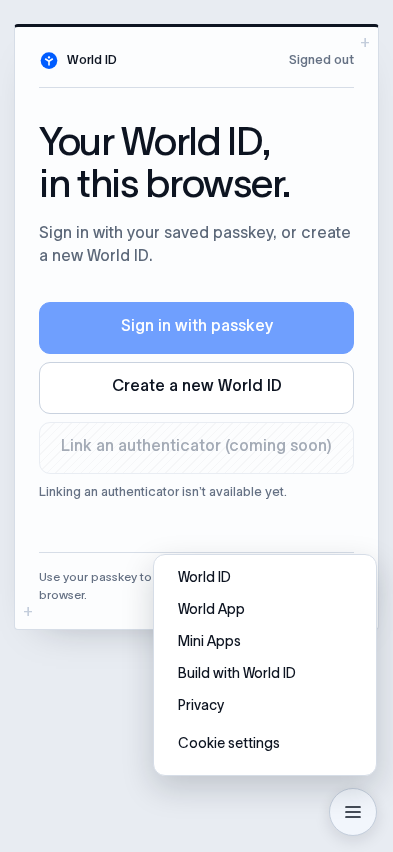
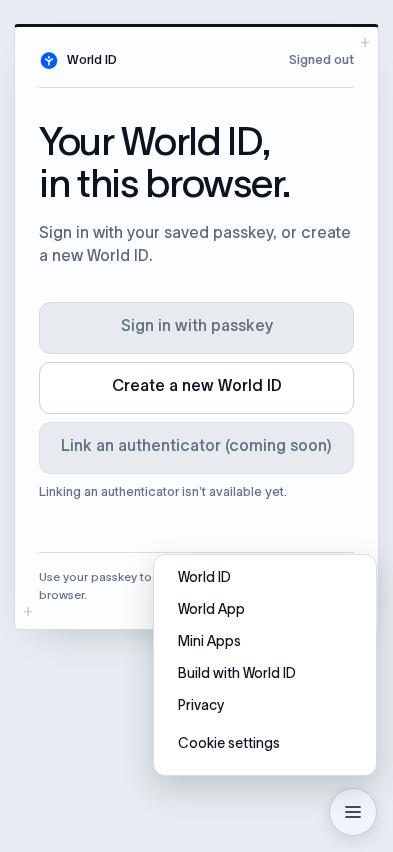
Show progress while opening authenticator

Changed region(s): [[0.0916, 0.3357, 0.916, 0.4272], [0.1527, 0.5188, 0.855, 0.5493]]

diff --git a/web/components/AuthenticatorAccess.tsx b/web/components/AuthenticatorAccess.tsx
@@ -12,6 +12,7 @@ export function AuthenticatorAccess({ onOpen }: {
   const [records, setRecords] = useState<CredentialMetadata[] | null>(null);
   const [preview, setPreview] = useState(false);
   const [busy, setBusy] = useState(false);
+  const [progress, setProgress] = useState("");
   const [error, setError] = useState<string>();
   const wallet = useRef<WalletKit | null>(null);
   const operation = useRef<AbortController | null>(null);
@@ -25,12 +26,14 @@ export function AuthenticatorAccess({ onOpen }: {
     if (operation.current) return;
     const controller = new AbortController(); operation.current = controller;
     setBusy(true); setError(undefined);
+    setProgress(mode === "create" ? "Create your passkey to continue." : "Use your passkey to sign in.");
     try {
       const deadline = AbortSignal.any([controller.signal, AbortSignal.timeout(310_000)]);
-      const current = await abortable(onOpen(deadline, () => {}, mode).then(value => {
+      const current = await abortable(onOpen(deadline, () => { if (!deadline.aborted && operation.current === controller) setProgress("Opening your authenticator…"); }, mode).then(value => {
         if (deadline.aborted) { value.terminate(); deadline.throwIfAborted(); }
         wallet.current = value; return value;
       }), deadline);
+      setProgress("Loading your credentials…");
       const credentials = await abortable(current.listCredentials(), AbortSignal.any([deadline, AbortSignal.timeout(10_000)]));
       deadline.throwIfAborted(); setRecords(credentials);
     } catch {
@@ -76,12 +79,15 @@ export function AuthenticatorAccess({ onOpen }: {
       </div> : <div className="flex flex-1 flex-col pt-9">
         <h1 className="text-[40px] leading-[1.04] tracking-[-.033em]">Your World ID,<br />in this browser.</h1>
         <p className="mt-4 max-w-[22em] text-[16px] leading-[1.45] text-[#5c6879]">Sign in with your saved passkey, or create a new World ID.</p>
-        <div className="mt-8 grid gap-2">
-          <button className={`${button} border-[#0a5cfe] bg-[#0a5cfe] text-white enabled:hover:bg-[#0846c2]`} disabled={busy || !saved} onClick={() => void open("open")}>Sign in with passkey</button>
-          <button className={`${button} border-[#c9d2df] bg-white enabled:hover:bg-[#f5f8fd]`} disabled={busy || saved} onClick={() => void open("create")}>{busy ? "Opening authenticator…" : "Create a new World ID"}</button>
-          <button className={`${button} cursor-not-allowed border-[#dde3ec] text-[#657184] [background:repeating-linear-gradient(-45deg,rgba(13,20,33,.048)_0_1px,transparent_1px_6px)]`} disabled>Link an authenticator (coming soon)</button>
+        {busy ? <div className="mt-8 flex items-center gap-3 text-[15px] text-[#5c6879]" role="status" aria-live="polite">
+          <span aria-hidden="true" className="size-6 shrink-0 rounded-full border-2 border-[#d6dde7] border-t-[#0a5cfe] motion-safe:animate-spin" />
+          <span>{progress}</span>
+        </div> : <div className="mt-8 grid gap-2">
+          <button className={`${button} border-[#0a5cfe] bg-[#0a5cfe] text-white enabled:hover:bg-[#0846c2] disabled:cursor-not-allowed disabled:border-[#d6dde7] disabled:bg-[#e7ebf0] disabled:text-[#657184] disabled:opacity-100`} disabled={!saved} onClick={() => void open("open")}>Sign in with passkey</button>
+          <button className={`${button} border-[#c9d2df] bg-white enabled:hover:bg-[#f5f8fd] disabled:cursor-not-allowed disabled:border-[#d6dde7] disabled:bg-[#e7ebf0] disabled:text-[#657184] disabled:opacity-100`} disabled={saved} onClick={() => void open("create")}>Create a new World ID</button>
+          <button className={`${button} cursor-not-allowed border-[#dde3ec] bg-[#e7ebf0] text-[#657184] disabled:opacity-100`} disabled>Link an authenticator (coming soon)</button>
           <p className="mt-1 text-[13px] text-[#657184]">Linking an authenticator isn’t available yet.</p>
-        </div>
+        </div>}
         <p className="mt-auto border-t border-[#d6dde7] pt-4 text-[12px] leading-[1.5] text-[#657184]">Use your passkey to unlock your authenticator in this browser.</p>
       </div>}
       {error && <p className="mt-4 rounded-lg bg-[#fff1f1] p-3 text-[14px] text-[#a32424]" role="alert">{error}</p>}

diff --git a/web/test/app.test.tsx b/web/test/app.test.tsx
@@ -1,6 +1,6 @@
 import { afterAll, afterEach, beforeAll, beforeEach, expect, spyOn, test } from "bun:test";
 import { GlobalRegistrator } from "@happy-dom/global-registrator";
-import { cleanup, fireEvent, render } from "@testing-library/react";
+import { act, cleanup, fireEvent, render } from "@testing-library/react";
 import { AuthenticatorAppV1 } from "../App";
 import { signedRequest } from "../../tests/integration/fixtures/request";
 import type { IncomingRequest } from "../lib/incoming-request";
@@ -278,5 +278,55 @@ test("an active Selfie Check does not offer setup", async () => {
     fireEvent.click(await view.findByRole("button", { name: "Sign in with passkey" }));
     expect(await view.findByText("1 credential in your authenticator.")).toBeTruthy();
     expect(view.queryByRole("button", { name: "Set up Selfie Check" })).toBeNull();
+  } finally { localStorage.clear(); }
+});
+
+for (const mode of ["create", "open"] as const) {
+  test(`${mode} shows progress until the wallet and credentials finish loading`, async () => {
+    localStorage.clear();
+    if (mode === "open") localStorage.setItem("world-id-wallet-v1", JSON.stringify({ version: 1, credentialId: "ab" }));
+    visit("/");
+    const f = await fixture(11);
+    let finishOpen!: (wallet: WalletKit) => void;
+    let finishList!: (records: CredentialMetadata[]) => void;
+    let reportProgress!: (message: string) => void;
+    const wallet = { ...f.wallet, terminate: () => {}, listCredentials: () => new Promise<CredentialMetadata[]>(resolve => { finishList = resolve; }) } as WalletKit;
+    const view = render(<AuthenticatorAppV1 services={{ ...f.services, open: async (_signal, report) => {
+      reportProgress = report;
+      return new Promise<WalletKit>(resolve => { finishOpen = resolve; });
+    } }} consent={decidedConsent} />);
+    try {
+      const action = mode === "open" ? "Sign in with passkey" : "Create a new World ID";
+      const unavailable = mode === "open" ? "Create a new World ID" : "Sign in with passkey";
+      expect((await view.findByRole("button", { name: unavailable }) as HTMLButtonElement).disabled).toBe(true);
+      fireEvent.click(view.getByRole("button", { name: action }));
+      expect(view.getByRole("status").textContent).toContain(mode === "open" ? "Use your passkey" : "Create your passkey");
+      expect(view.queryByRole("button", { name: action })).toBeNull();
+      expect(view.queryByRole("button", { name: unavailable })).toBeNull();
+      expect(view.queryByRole("button", { name: /Link an authenticator/ })).toBeNull();
+      act(() => reportProgress("internal registration progress"));
+      expect(view.getByRole("status").textContent).toBe("Opening your authenticator…");
+      await act(async () => { finishOpen(wallet); });
+      expect(await view.findByText("Loading your credentials…")).toBeTruthy();
+      await act(async () => { finishList([]); });
+      expect(await view.findByText("0 credentials in your authenticator.")).toBeTruthy();
+      expect(view.queryByRole("status")).toBeNull();
+    } finally { localStorage.clear(); }
+  });
+}
+
+test("failed creation restores actions and offers sign-in when a passkey was saved", async () => {
+  localStorage.clear(); visit("/");
+  const f = await fixture(11);
+  const view = render(<AuthenticatorAppV1 services={{ ...f.services, open: async () => {
+    localStorage.setItem("world-id-wallet-v1", JSON.stringify({ version: 1, credentialId: "ab" }));
+    throw new Error("registration unavailable");
+  } }} consent={decidedConsent} />);
+  try {
+    fireEvent.click(await view.findByRole("button", { name: "Create a new World ID" }));
+    expect(await view.findByRole("alert")).toBeTruthy();
+    expect(view.queryByRole("status")).toBeNull();
+    expect((view.getByRole("button", { name: "Sign in with passkey" }) as HTMLButtonElement).disabled).toBe(false);
+    expect((view.getByRole("button", { name: "Create a new World ID" }) as HTMLButtonElement).disabled).toBe(true);
   } finally { localStorage.clear(); }
 });

diff --git a/tests/integration/browser/authenticator.browser.spec.ts b/tests/integration/browser/authenticator.browser.spec.ts
@@ -221,6 +221,22 @@ if (!("bun" in process.versions)) {
     await expect(page.getByRole("heading", { name: "Your World ID, in this browser." })).toBeVisible();
   });
 
+  test("creating a World ID shows progress while the passkey request is pending", async ({ page }) => {
+    await page.addInitScript(() => {
+      navigator.credentials.create = () => new Promise(() => {});
+    });
+    await page.goto("/");
+    const signIn = page.getByRole("button", { name: "Sign in with passkey" });
+    await expect(signIn).toBeDisabled();
+    await expect(signIn).toHaveCSS("background-color", "rgb(231, 235, 240)");
+    await page.getByRole("button", { name: "Create a new World ID" }).click();
+    await expect(page.getByRole("status")).toContainText("Create your passkey to continue.");
+    await page.screenshot({ path: "test-results/screenshots/passkey-progress.png" });
+    await expect(signIn).toHaveCount(0);
+    await expect(page.getByRole("button", { name: "Create a new World ID" })).toHaveCount(0);
+    await expect(page.getByRole("button", { name: /Link an authenticator/ })).toHaveCount(0);
+  });
+
   test("signed request link names the verified RP and sends an encrypted rejection on cancel", async ({ page }, info) => {
     const { payload, registry } = await signedRequest(11);
     const encrypted = await encryptedRequest(payload);
